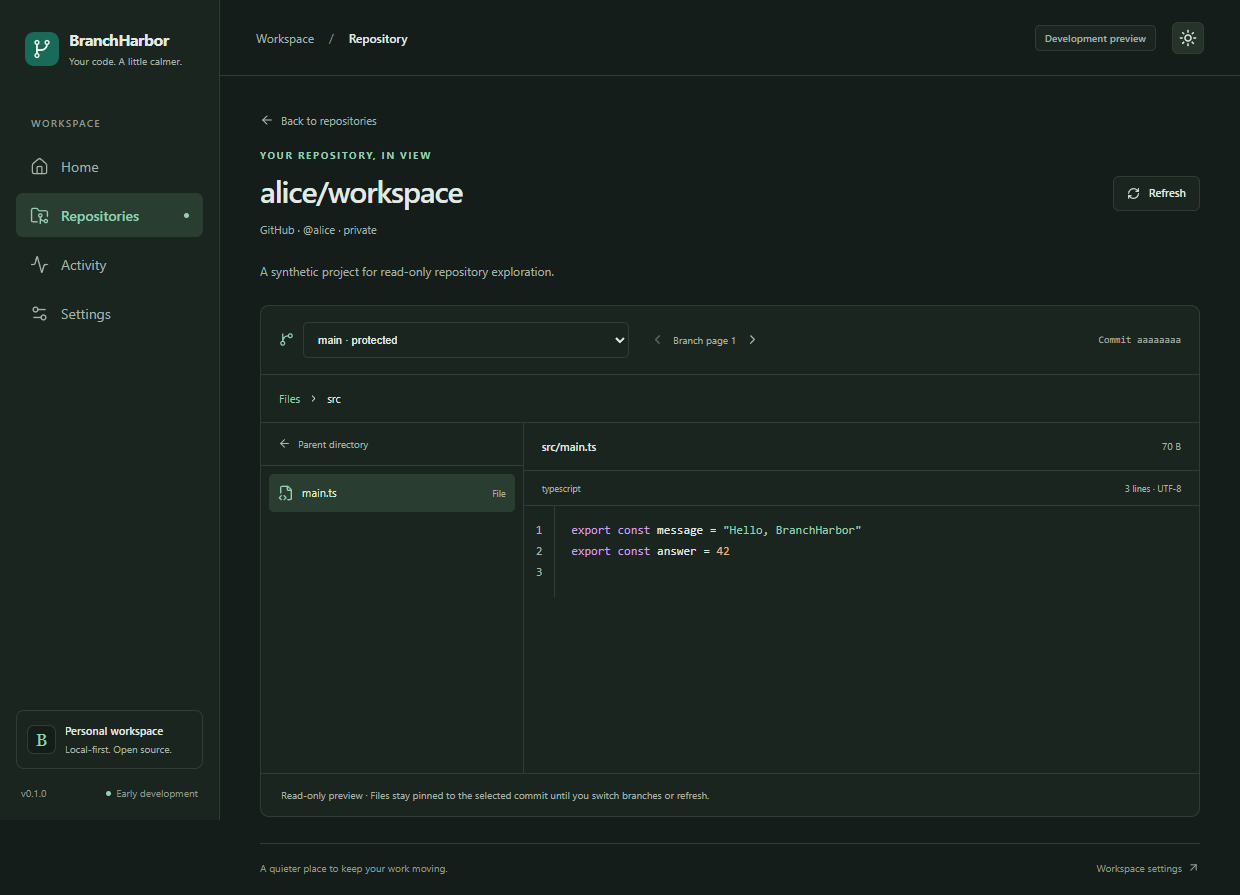
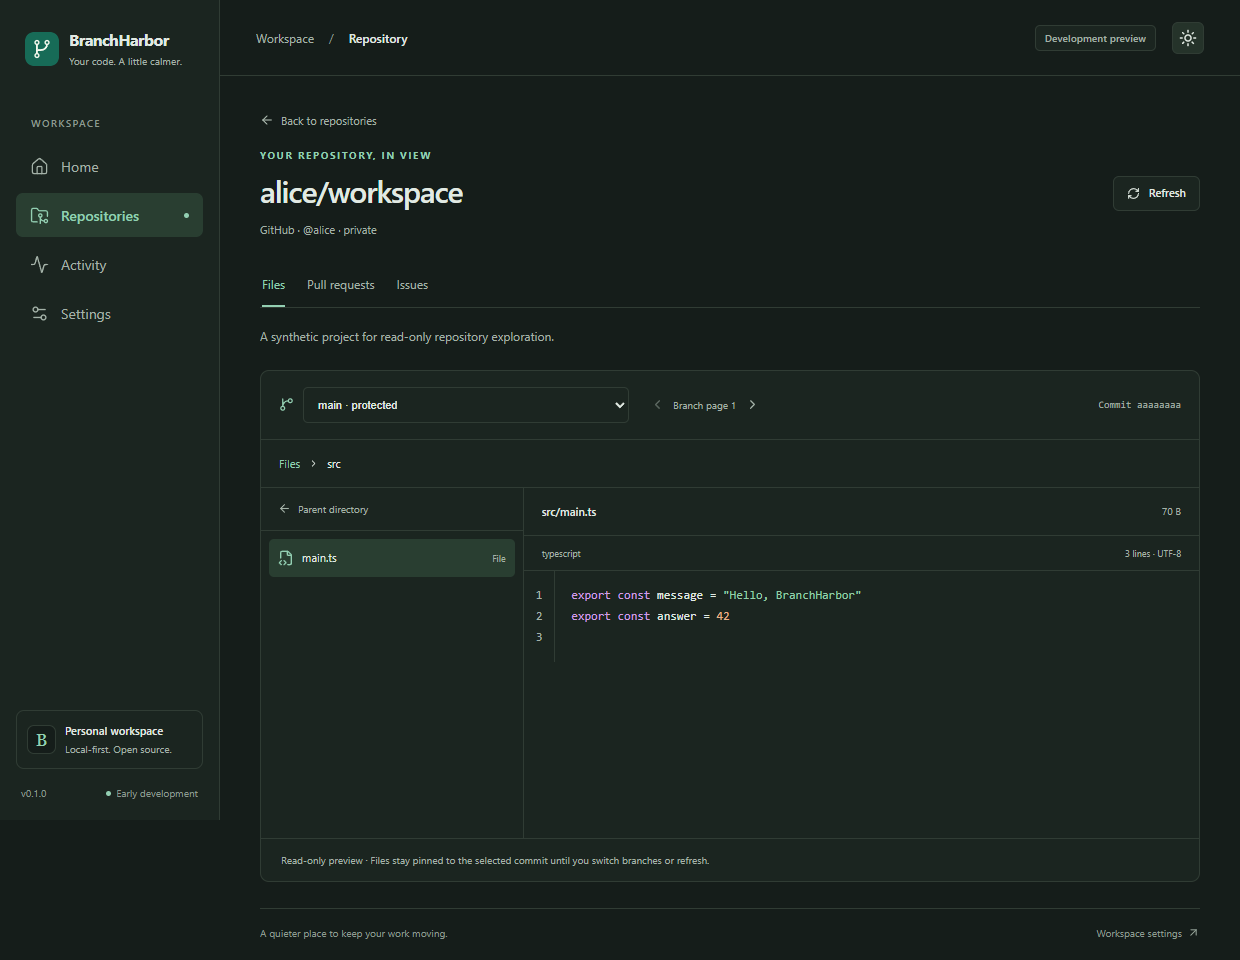
docs: document discussion reader and validation limits

diff --git a/docs/pr-issue-reader.md b/docs/pr-issue-reader.md
@@ -1,0 +1,164 @@
+# Pull request and issue reader
+
+Status: implemented on `feature/pr-issue-reader`. This increment adds read-only PR/Issue lists,
+details, and paginated discussion comments to the repository workspace. Authenticated live-account
+and private-repository validation remain pending; fixture checks do not establish authorization
+coverage.
+
+## Workflow
+
+1. Connect a desktop account using the [account guide](provider-accounts.md), open **Repositories**,
+   and select a repository.
+2. Use **Files**, **Pull requests**, or **Issues** to focus on one repository task. Selecting
+   another task clears the previous discussion view. Returning to Files reloads its default
+   branch/root.
+3. Select a state and move between provider pages. Lists show title, number, author, state, labels,
+   and update time; they do not invent total repository counts.
+4. Open an item to read its description and general discussion comments. PR details also show
+   source/target repository and branch names where available, draft status, and closing/merge time.
+   Deleted users or branches have explicit fallback labels.
+5. Page comments independently. **Back to pull requests/issues** restores the list state and page;
+   **Back to repositories** restores the existing in-session repository list.
+6. **Refresh** rechecks the active list or reloads the active detail and current comment page.
+   Comment errors preserve the readable description; **Retry** repeats the failed comments request
+   without refetching an already loaded detail.
+
+List filters, provider page, item number, and comment page are encoded in local hash routes. Browser
+Back/Forward and reload restore that navigation, subject to current permissions. Bodies, tokens,
+titles, and comment text are never placed in routes. The mounted reader retains one list page and
+one active detail/comment page in memory; it introduces no persistent discussion cache or polling.
+Times are displayed in the device's local time using English formatting.
+
+## Provider differences
+
+| Behavior               | GitHub                                         | Gitee                                                                            |
+| ---------------------- | ---------------------------------------------- | -------------------------------------------------------------------------------- |
+| PR filters             | Open, Closed, Merged, All                      | Open, Closed, Merged, All                                                        |
+| Issue filters          | Open, Closed, All                              | Open, In progress, Closed, Rejected, All                                         |
+| Item numbers           | Numeric strings                                | Numeric PR numbers; Issue numbers retain their original alphanumeric identifiers |
+| Merged PR filtering    | Request closed PRs, then retain merged entries | Request the native merged state                                                  |
+| PR discussion comments | Issue-comments endpoint for the PR number      | PR-comments endpoint with `comment_type=pr_comment`                              |
+| Issue comments         | Issue-comments endpoint                        | Issue-comments endpoint with ascending order                                     |
+
+GitHub's issue listing can contain PR entries. The adapter removes entries with `pull_request`
+metadata and rejects them when opened as an Issue detail. It determines PR merge state from the
+provider's merged state, merge timestamp, or explicit merged flag; ordinary closed PRs remain
+distinct from merged PRs. Unknown response states are labeled Unknown.
+
+Pagination follows the upstream page boundaries, 30 entries per request. Filtering happens after
+next-page detection using `Link` metadata or the full-page fallback. A filtered page can therefore
+be empty while another page exists; the UI explains this and leaves Next available. It does not
+claim the repository has no matching discussions. A full final page without Link metadata can permit
+one extra empty page. No unbounded scan or fabricated page count is introduced.
+
+## Commands and transport
+
+Repository navigation uses namespace/path components from canonical `full_name`, rather than
+assuming a display name or owner login is an API path. This matters on Gitee, where friendly
+repository names and namespace identities can differ from those request components.
+
+`read_collaboration` receives a stored account ID, owner/name, `pulls` or `issues`, and one typed
+operation: `list`, `detail`, or `comments`. Rust validates repository components, page bounds,
+resource/state compatibility, and provider-specific item numbers before credential access. The
+service reuses the selected account's OS credential and existing blocking worker/mutex boundary.
+
+| Operation                       | Provider-relative GET path                            |
+| ------------------------------- | ----------------------------------------------------- |
+| PR list/detail                  | `/repos/{owner}/{repo}/pulls` and `/pulls/{number}`   |
+| Issue list/detail               | `/repos/{owner}/{repo}/issues` and `/issues/{number}` |
+| GitHub discussion comments      | `/repos/{owner}/{repo}/issues/{number}/comments`      |
+| Gitee PR discussion comments    | `/repos/{owner}/{repo}/pulls/{number}/comments`       |
+| Gitee Issue discussion comments | `/repos/{owner}/{repo}/issues/{number}/comments`      |
+
+The adapters use the fixed GitHub/Gitee API hosts and existing header-only authorization, timeouts,
+8 MiB response bound, disabled redirects, and safe error messages. Resource paths are constructed
+locally; provider links are never followed. The frontend checks account, repository, resource,
+operation, number, and page context. Generation guards discard late responses after switching
+repositories, tasks, items, filters, or pages. Credentials remain outside frontend state.
+
+## Safe display and recovery
+
+Descriptions and comments are shown as escaped plain text, including Markdown source. Embedded HTML,
+scripts, image URLs, and Markdown links are not rendered, executed, or fetched. Remote avatars are
+not requested. This increment adds no Markdown renderer, dependencies, plugins, or write APIs.
+
+Each description/comment is limited to 64 KiB on a UTF-8 boundary, with a visible truncation notice.
+Lists omit body text; up to 100 label names are retained per item. Bodies remain transient memory
+and are not written to SQLite or logs. The HTTP response bound still applies before normalization.
+
+Loading, empty filtered pages, empty comments, inaccessible resources, expired tokens, offline
+requests, locked/missing credentials, and provider errors have separate states. Comment failures are
+shown inside Comments and retain the description. Rate-limit timing blocks early requests for that
+account while the reader is mounted; missing timing uses 60 seconds. Navigating to another account
+clears old content and uses that account's cooldown. Timers run only while a cooldown is active and
+are cleared on unmount.
+
+## Authorization and limitations
+
+Fine-grained GitHub tokens need **Issues: read** and/or **Pull requests: read** for the
+corresponding private resources. Repository **Contents: read** alone does not authorize
+collaboration access. The relevant issue-comments endpoint accepts either Issues or Pull requests
+read permission. Gitee tokens should include `user_info`/`projects` for account/repository access
+and the relevant `issues`/`pull_requests` scopes. Scope guidance and selected
+repository/organization approvals must be verified with the maintainer's actual account through the
+desktop form.
+
+This is a discussion reader: inline code review comments, review threads, diffs, review decisions,
+and a complete event timeline are not included. There are no create/edit/comment/close/reopen/merge
+controls. Gitee header-based authentication and live private resource coverage remain unverified, as
+recorded in the account guide. A successful repository or file request does not prove discussion
+permissions. A successful build is not proof of native runtime or clean installation behavior.
+
+## Validation record
+
+Windows checks on 2026-11-02:
+
+- `pnpm check`: formatting, lint, types, project consistency, and 50 frontend/component/policy
+  tests.
+- `pnpm check:rust`: formatting, Clippy, and 33 account/provider/explorer/reader tests. The existing
+  synthetic OS credential round-trip remains opt-in and ignored in ordinary CI.
+- `pnpm build` and 24 Edge browser tests cover repository navigation, list/metadata restoration,
+  merged/closed distinctions, Gitee identifiers/states, paged comments, safe inert bodies, filtered
+  empty pages, partial errors, stale responses, cooldowns, and narrow layouts.
+- Native Windows `tauri dev` verified real reader IPC, invalid inputs, missing-account recovery, and
+  the Files/Pull requests/Issues navigation using isolated test data and no personal tokens.
+- Windows unsigned x64 NSIS packaging succeeded using `pnpm tauri build --bundles nsis --ci`. The
+  test installer is approximately 2.16 MiB. Clean installation and release-mode live-account
+  behavior remain maintainer checks.
+
+Rust mock HTTP tests exercise actual outgoing GET paths and parameters, provider normalization,
+pagination before filtering, body bounds, deleted authors, mismatched resource details, and safe
+error mapping. Browser fixtures live only under `tests/e2e/` and never contact providers or OS
+credential storage. Public unauthenticated Gitee list responses were inspected to confirm PR branch
+metadata and string Issue identifiers; this does not validate the authenticated application flow.
+
+Inspect [current CI results](https://github.com/ObsidianLoneCrane/BranchHarbor/actions) for the
+feature branch's Windows/macOS/Linux build and packaging results.
+
+### Remaining maintainer checks
+
+Using only the app's account form, verify public and authorized private PR/Issue lists, each
+supported state, details, deleted-author cases where available, and multi-page discussion comments
+for both providers. Test a restricted token and expired access. Confirm no writes occur and no
+private text or token appears in screenshots/logs. Validate native behavior on macOS/Linux and clean
+installation separately. Record actual token class/scopes and outcomes without secrets.
+
+## Interface previews
+
+These screenshots use synthetic accounts, discussions, and comments. They demonstrate the
+implemented interface and do not prove live private-account authorization.
+
+![Pull request list with distinct states](images/pull-list-light.png)
+
+![Pull request detail and discussion in light mode](images/pull-detail-light.png)
+
+![Pull request detail and discussion in dark mode](images/pull-detail-dark.png)
+
+![Gitee Issue detail with a string identifier](images/issue-detail-light.png)
+
+## References
+
+- [GitHub repository issues](https://docs.github.com/en/rest/issues/issues#list-repository-issues)
+- [GitHub pull requests](https://docs.github.com/en/rest/pulls/pulls)
+- [GitHub issue discussion comments](https://docs.github.com/en/rest/issues/comments)
+- [Gitee Open API specification](https://gitee.com/api/v5/swagger_doc.json)

diff --git a/README.md b/README.md
@@ -13,9 +13,11 @@ and Settings; light/dark/system appearance; local quality checks; and a cross-pl
 The desktop app connects GitHub/Gitee accounts with personal access tokens, stores credentials in
 the OS credential store, and loads paginated repository lists with account and visibility filters.
 The read-only repository explorer adds details, branch selection, directories, and bounded text
-previews with syntax highlighting. Git operations and live contribution data remain planned. Live
-private-account verification and macOS/Linux credential-store runtime checks remain outstanding; see
-the [account guide](docs/provider-accounts.md). There are no signed public application releases.
+previews with syntax highlighting. Pull requests and Issues have separate read-only lists, state
+filters, details, and paginated discussion comments. Git operations and live contribution data
+remain planned. Live private-account verification and macOS/Linux credential-store runtime checks
+remain outstanding; see the [account guide](docs/provider-accounts.md). There are no signed public
+application releases.
 
 Windows x64 startup, native IPC, and NSIS test packaging have been verified locally. CI is
 configured for Windows x64, macOS ARM64/x64, and Linux x64. CI compilation and real installation
@@ -75,16 +77,17 @@ verification limits.
 Start with the [application scaffold guide](docs/application-scaffold.md) for commands, screenshots,
 implemented behavior, and validation limits.
 
-| Document                                                   | Purpose                                                        |
-| ---------------------------------------------------------- | -------------------------------------------------------------- |
-| [Product requirements](docs/product-requirements.md)       | Scope, workflows, UI principles, and acceptance criteria       |
-| [Architecture](docs/architecture.md)                       | Proposed technology, boundaries, and data model                |
-| [Provider accounts](docs/provider-accounts.md)             | Account setup, repository discovery, security, and validation  |
-| [Repository explorer](docs/repository-explorer.md)         | Branch selection, pinned directory browsing, and text previews |
-| [Development environment](docs/development-environment.md) | Local tools, verification, and removal                         |
-| [Branching and releases](docs/branching-and-releases.md)   | Branches, manual PR workflow, and planned delivery checks      |
-| [Roadmap](docs/roadmap.md)                                 | Completed work and implementation stages                       |
-| [Contributing](CONTRIBUTING.md)                            | Language, commits, documentation, and validation               |
+| Document                                                   | Purpose                                                               |
+| ---------------------------------------------------------- | --------------------------------------------------------------------- |
+| [Product requirements](docs/product-requirements.md)       | Scope, workflows, UI principles, and acceptance criteria              |
+| [Architecture](docs/architecture.md)                       | Proposed technology, boundaries, and data model                       |
+| [Provider accounts](docs/provider-accounts.md)             | Account setup, repository discovery, security, and validation         |
+| [Repository explorer](docs/repository-explorer.md)         | Branch selection, pinned directory browsing, and text previews        |
+| [PR and Issue reader](docs/pr-issue-reader.md)             | Discussion lists, details, comments, provider differences, and limits |
+| [Development environment](docs/development-environment.md) | Local tools, verification, and removal                                |
+| [Branching and releases](docs/branching-and-releases.md)   | Branches, manual PR workflow, and planned delivery checks             |
+| [Roadmap](docs/roadmap.md)                                 | Completed work and implementation stages                              |
+| [Contributing](CONTRIBUTING.md)                            | Language, commits, documentation, and validation                      |
 
 ## Contributing
 

diff --git a/docs/architecture.md b/docs/architecture.md
@@ -1,8 +1,8 @@
 # Architecture
 
 Status: the application shell, PAT account connections, SQLite account metadata, native credential
-storage, paginated provider discovery, and read-only repository exploration are implemented. Git
-workflows, durable repository caches, and contribution data remain planned.
+storage, paginated provider discovery, repository exploration, and read-only PR/Issue discussions
+are implemented. Git workflows, durable repository caches, and contribution data remain planned.
 
 ## Implemented foundation
 
@@ -34,6 +34,14 @@ operations through the same account/credential boundary. Blocking HTTP, vault, a
 on Tauri's blocking worker pool. A service mutex serializes account operations, including network
 requests, to avoid credential replacement/removal races; another account's request can wait behind
 an active request.
+
+`read_collaboration` is the sixth command. `accounts/reader.rs` normalizes provider-specific issue
+identifiers, states, and discussion endpoints through the same native transport and credential
+boundary. `src/lib/reader.ts` validates response context; `src/composables/reader.ts` owns transient
+list/detail/comment state, retry scope, and request generations. Hash-route query parameters retain
+list filters and page context without bodies or secrets. Escaped plain-text descriptions/comments
+have explicit byte limits, and failures in comments do not discard readable details. See the
+[reader guide](pr-issue-reader.md).
 
 reqwest uses fixed HTTPS provider endpoints, sensitive Authorization headers, explicit timeouts,
 disabled redirects, bounded bodies, and normalized errors. SQL stores schema-versioned non-secret

diff --git a/docs/roadmap.md b/docs/roadmap.md
@@ -43,7 +43,9 @@ Deliver this stage through focused increments:
 2. Implemented: repository details, paginated branches, immutable revision selection, lazy directory
    browsing, and bounded text previews on `feature/repository-explorer`. See the
    [explorer guide](repository-explorer.md) for validation limits and maintainer acceptance checks.
-3. Read-only PR and issue lists and details in a subsequent feature.
+3. Implemented: separate read-only PR/Issue lists, state filters, details, and paginated discussion
+   comments on `feature/pr-issue-reader`. See the [reader guide](pr-issue-reader.md) for provider
+   differences and outstanding live validation.
 4. Contribution-source validation, including the unresolved Gitee calendar coverage requirement.
    Investigate feasibility early rather than waiting for final dashboard implementation.
 

diff --git a/docs/product-requirements.md b/docs/product-requirements.md
@@ -1,10 +1,10 @@
 # Product requirements
 
 Status: agreed product direction. The application shell, PAT account connections, secure credential
-storage, paginated repository discovery, and read-only branch/directory/text browsing are
-implemented. Live private-account verification is still pending. Other repository workflows remain
-planned; see the [account guide](provider-accounts.md) and [roadmap](roadmap.md) for current
-delivery status.
+storage, paginated repository discovery, read-only branch/directory/text browsing, and PR/Issue
+lists, details, and discussion comments are implemented. Live private-account verification is still
+pending. Other repository workflows remain planned; see the [account guide](provider-accounts.md)
+and [roadmap](roadmap.md) for current delivery status.
 
 ## Purpose
 

diff --git a/docs/provider-accounts.md b/docs/provider-accounts.md
@@ -133,8 +133,9 @@ Record platform, token class/scopes, repository visibility, and outcome without 
 
 Acceptance for live private-account coverage remains open until those checks are recorded. The
 subsequent [repository explorer](repository-explorer.md) implements branch, directory, and text
-browsing. PR/issue details, local import, Git mutations, and contribution calendars remain later
-increments. Gitee full-year contribution coverage is still unresolved.
+browsing. The [PR/Issue reader](pr-issue-reader.md) adds discussion lists, details, and comments.
+Local import, Git mutations, and contribution calendars remain later increments. Gitee full-year
+contribution coverage is still unresolved.
 
 ## Interface previews
 

diff --git a/docs/repository-explorer.md b/docs/repository-explorer.md
@@ -127,8 +127,9 @@ displayed commit stays fixed while browsing and changes only after branch select
 tokens and private source out of screenshots and logs. Repeat native preview/worker behavior on
 macOS and Linux before claiming runtime parity.
 
-PR/issue reading is the next focused increment. Local import, Git mutations, full history, tags, and
-contribution calendars remain separate roadmap work.
+The [PR/Issue reader](pr-issue-reader.md) adds separate repository navigation for read-only lists,
+details, and discussion comments. Local import, Git mutations, full history, tags, and contribution
+calendars remain separate roadmap work.
 
 ## Interface previews
 

diff --git a/docs/development-environment.md b/docs/development-environment.md
@@ -133,6 +133,9 @@ the bundler's expected checksum. Do not disable checksum verification or use unt
 
 Vite excludes the local toolchain, Rust tree, scratch files, and browser test output from its
 development watcher. Keep new cache directories ignored by both Git and any affected file watchers.
+The selected syntax-highlighting worker dependencies are prebundled at development startup to avoid
+a dependency-optimization reload when the first source preview opens. This does not eagerly load the
+highlighting worker in the application.
 
 ## Verification
 

diff --git a/docs/application-scaffold.md b/docs/application-scaffold.md
@@ -21,6 +21,10 @@ The [repository explorer](repository-explorer.md) adds a repository detail route
 selection, immutable directory browsing, and bounded source previews. Its guide records the current
 test counts, screenshots, limits, and live-validation requirements.
 
+The [PR/Issue reader](pr-issue-reader.md) adds a lazy discussion route, repository task navigation,
+state-filtered lists, details, and paginated general comments. Its validation record supersedes the
+foundation-only test counts below.
+
 ## Source layout
 
 ```text
